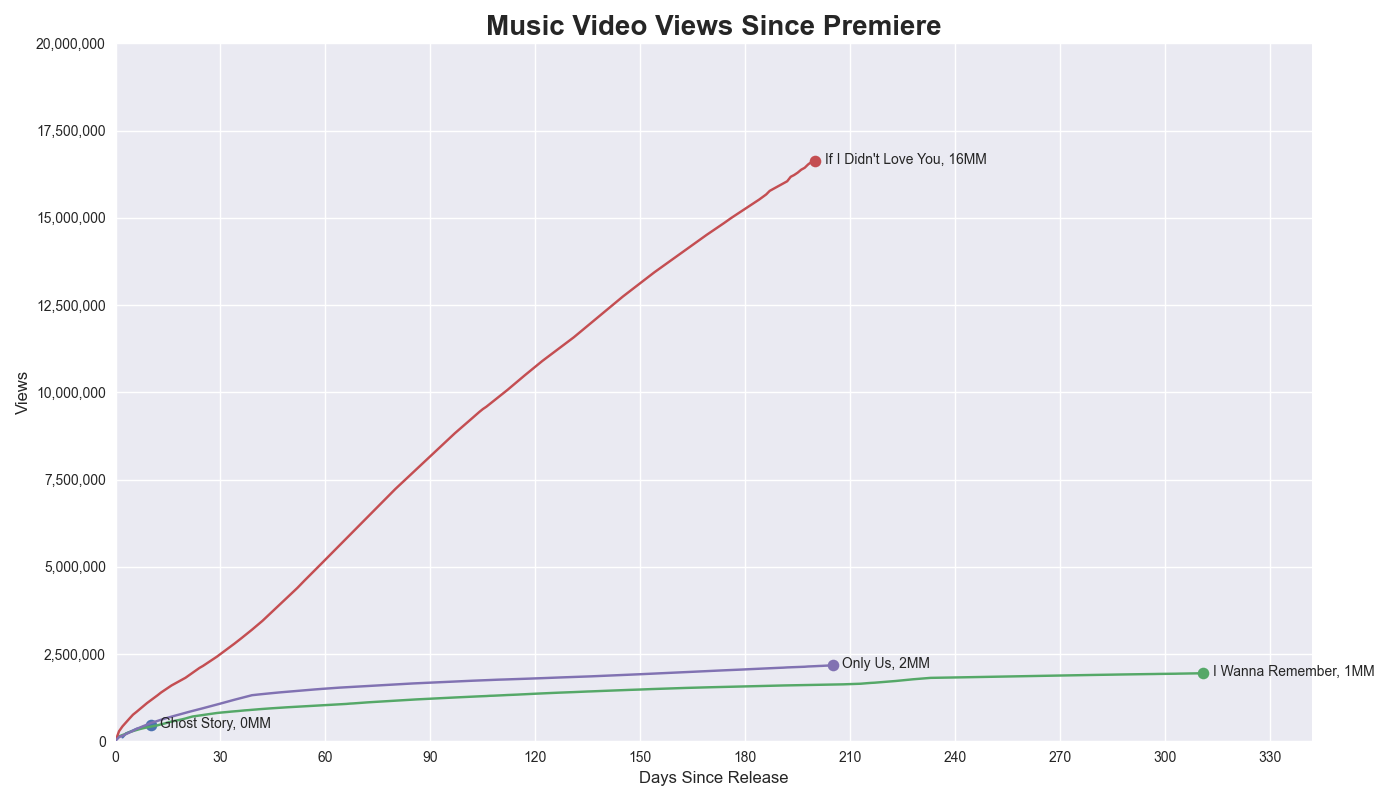
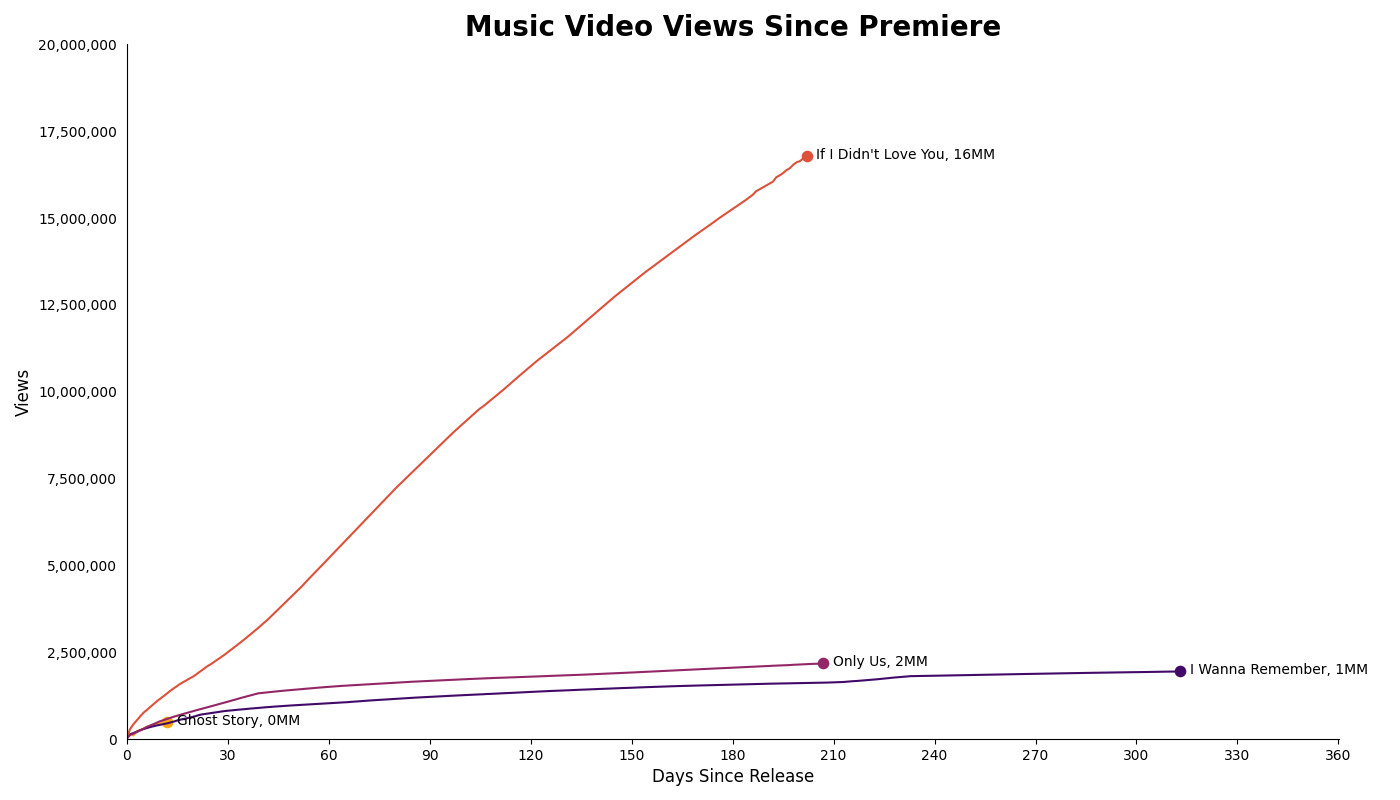
fixed graphs

diff --git a/YouTube Views.py b/YouTube Views.py
@@ -161,13 +161,13 @@ scraped_data['Video'] = scraped_data['Video']\
 
 
 " Import Previously Scraped Data "
-existing_data = pd.read_csv("Projects/Scrape-YouTube-Views/Output/YouTube Views.csv", parse_dates=[0])
+existing_data = pd.read_csv("Projects/Scrape-YouTube-Views/Output/YouTube Views.csv", parse_dates=[0, 1])
 
 
 " Append New Data to Existing Data "
 df_export = pd.concat([existing_data, scraped_data]).reset_index(drop=True)
-# df_export["Date"] = pd.to_datetime(df_export["Date"])
-# df_export["Upload Date"] = pd.to_datetime(df_export["Upload Date"])
+df_export["Date"] = pd.to_datetime(df_export["Date"])
+df_export["Upload Date"] = pd.to_datetime(df_export["Upload Date"])
 
 
 " Export to CSV "
@@ -182,52 +182,79 @@ print(tabulate(df_export, headers='keys', tablefmt='plain', showindex=False))
 
 
 
+
+
+
 " Analysis - Views Since Day of Release "
-# Show number of views based on days from upload date to show the biggest releases
 
-day_of_release = pd.read_csv("Projects/Scrape-YouTube-Views/Output/YouTube Views.csv", parse_dates=[0, 1])
+premiere = pd.read_csv("Projects/Scrape-YouTube-Views/Output/YouTube Views.csv", parse_dates=[0, 1])
+premiere['Days Since Release'] = (pd.to_datetime(premiere['Date']) - pd.to_datetime(premiere['Upload Date'])).dt.days.astype('int16')
+premiere = premiere.sort_values(by=['Video', 'Date']).reset_index(drop=True)
 
-day_of_release['Days Since Release'] = pd.to_datetime(day_of_release['Date']) - pd.to_datetime(day_of_release['Upload Date'])
-day_of_release['Days Since Release'] = day_of_release['Days Since Release'].dt.days.astype('int16')
-day_of_release = day_of_release.sort_values(by=['Video', 'Date']).reset_index(drop=True)
+# Color
+premiere_sort = premiere.sort_values('Upload Date')
+unique_videos = premiere_sort['Video'].unique()
+color_values = sns.color_palette('inferno', len(unique_videos))
+color_map = pd.DataFrame(zip(unique_videos, color_values), columns=['Video', 'Color'])
+premiere_plot = premiere.merge(color_map, how='left', left_on=['Video'], right_on=['Video'])
+
 
 
 " Plot - Views Since Day of Release "
-# TODO: fix color scheme
-plt.style.use('seaborn')  # Set style
+
+plt.style.use('default')  # Set style
 fig, ax = plt.subplots(figsize=(14, 8))
 
-grouped = day_of_release.groupby('Video')
+grouped = premiere_plot.groupby('Video')
 
-for video, grp in day_of_release.groupby(['Video']):
-    ax = grp.plot(ax=ax,
-                  kind='line',
-                  x='Days Since Release',
-                  y='Views',
-                  label=video,
-                  legend=False)
+for video, grp in premiere_plot.groupby(['Video']):
+    selection = grouped.get_group(video)
+
+    ax = grp.plot(
+        ax=ax,
+        kind='line',
+        x='Days Since Release',
+        y='Views',
+        color=selection['Color'],
+        label=video,
+        legend=False)
 
     selection = grouped.get_group(video)
     max_views = selection['Views'].max()
+    color = selection['Color'].max()
     max_days = selection['Days Since Release'].max()  # Max number of days since release for each video
-    views = float(selection[day_of_release['Days Since Release'] == max_days]['Views'])  # Max views for each video
-    ax.scatter(x=[max_days], y=[views], s=70, clip_on=False, linewidth=0)  # Creates single dot at end of each line plot
+    views = float(selection[premiere_plot['Days Since Release'] == max_days]['Views'])  # Max views for each video
+    ax.scatter(x=[max_days], y=[views], s=70, color=[color], clip_on=False, linewidth=0)
+
     ax.annotate(
         video + ', ' + str(int(views/1000000)) + 'MM',
         xy=[max_days, views],
         xytext=[7, -2],
         textcoords='offset points')
 
+ax.tick_params(
+        which='both',  # Applies to both major and minor ticks
+        # bottom=False,  # Turn off tick marks on x-axis
+        left=False,  # Turn off tick marks on y-axis
+        right=False,  # Turn off tick marks on y2-axis
+        top=False,  # Turn off tick marks on top of charts
+        )
+
 # Format x axis
 ax.get_xaxis().set_major_formatter(matplotlib.ticker.FuncFormatter(lambda x, p: format(int(x), ',')))  # Format y axis thousands
-plt.xticks(np.arange(0, day_of_release['Days Since Release'].max().round(-3)+501, 500))
-ax.set_xlim([0, day_of_release['Days Since Release'].max().round(-3)+501])
+plt.xticks(np.arange(0, premiere_plot['Days Since Release'].max().round(-3)+501, 500))
+ax.set_xlim([0, premiere_plot['Days Since Release'].max().round(-3)+501])
 
 # Format y axis
-ax.get_yaxis().set_major_formatter(matplotlib.ticker.FuncFormatter(lambda x, p: format(int(x), ',')))  # Format y axis thousands
-plt.yticks(np.arange(0, 150000000 + 1, 25000000))
-ax.set_ylim([0, 150000000 + 1])
+# ax.get_yaxis().set_major_formatter(matplotlib.ticker.FuncFormatter(lambda x, p: format(int(x), ',')))  # Format y axis thousands
+# plt.yticks(np.arange(0, 150000000 + 1, 25000000))
+# ax.set_ylim([0, 150000000 + 1])
 ax.axes.yaxis.set_ticklabels([])
+
+ax.spines['top'].set_visible(False)
+# ax.spines['bottom'].set_visible(False)
+ax.spines['left'].set_visible(False)
+ax.spines['right'].set_visible(False)
 
 # Titles
 plt.title('Music Video Views Since Premiere',
@@ -243,43 +270,68 @@ plt.ylabel('Views',
 plt.tight_layout()
 plt.show()
 
-plt.savefig('Projects/Scrape-YouTube-Views/Output - Graphs/Views Since Premiere.png')
+# plt.savefig('Projects/Scrape-YouTube-Views/Output - Graphs/Views Since Premiere.png')
+
 
 
 " Plot - Views Since Day of Release - Subset "
 
-# Subset to videos that have been tracked since day 1
-day_of_release_subset = day_of_release.loc[(day_of_release['Upload Date'] >= min(day_of_release['Date']))]
+premiere_subset = pd.read_csv("Projects/Scrape-YouTube-Views/Output/YouTube Views.csv", parse_dates=[0, 1])
+premiere_subset['Days Since Release'] = (pd.to_datetime(premiere_subset['Date']) - pd.to_datetime(premiere_subset['Upload Date'])).dt.days.astype('int16')
+premiere_subset = premiere_subset.sort_values(by=['Video', 'Date']).reset_index(drop=True)
+premiere_subset = premiere_subset.loc[(premiere_subset['Upload Date'] >= min(premiere_subset['Date']))]
+
+# Color
+premiere_subset_sort = premiere_subset.sort_values('Upload Date')
+unique_videos_subset = premiere_subset_sort['Video'].unique()
+color_values_subset = sns.color_palette('inferno', len(unique_videos_subset))
+color_map_subset = pd.DataFrame(zip(unique_videos_subset, color_values_subset), columns=['Video', 'Color'])
+premiere_subset_plot = premiere_subset.merge(color_map_subset, how='left', left_on=['Video'], right_on=['Video'])
 
 
-plt.style.use('seaborn')  # Set style
+
+plt.style.use('default')  # Set style
 fig, ax = plt.subplots(figsize=(14, 8))
 
-grouped = day_of_release_subset.groupby('Video')
+grouped = premiere_subset_plot.groupby('Video')
 
-for video, grp in day_of_release_subset.groupby(['Video']):
-    ax = grp.plot(ax=ax,
-                  kind='line',
-                  x='Days Since Release',
-                  y='Views',
-                  label=video,
-                  legend=False)
+for video, grp in premiere_subset_plot.groupby(['Video']):
+    selection = grouped.get_group(video)
+
+    ax = grp.plot(
+        ax=ax,
+        kind='line',
+        x='Days Since Release',
+        y='Views',
+        color=selection['Color'],
+        label=video,
+        legend=False)
 
     selection = grouped.get_group(video)
     max_views = selection['Views'].max()
+    color = selection['Color'].max()
     max_days = selection['Days Since Release'].max()  # Max number of days since release for each video
-    views = float(selection[day_of_release_subset['Days Since Release'] == max_days]['Views'])  # Max views for each video
-    ax.scatter(x=[max_days], y=[views], s=70, clip_on=False, linewidth=0)  # Creates single dot at end of each line plot
+    views = float(selection[premiere_subset_plot['Days Since Release'] == max_days]['Views'])  # Max views for each video
+    ax.scatter(x=[max_days], y=[views], s=70, color=[color], clip_on=False, linewidth=0)
+
     ax.annotate(
         video + ', ' + str(int(views/1000000)) + 'MM',
         xy=[max_days, views],
         xytext=[7, -2],
         textcoords='offset points')
 
+ax.tick_params(
+        which='both',  # Applies to both major and minor ticks
+        # bottom=False,  # Turn off tick marks on x-axis
+        left=False,  # Turn off tick marks on y-axis
+        right=False,  # Turn off tick marks on y2-axis
+        top=False,  # Turn off tick marks on top of charts
+        )
+
 # Format x axis
 ax.get_xaxis().set_major_formatter(matplotlib.ticker.FuncFormatter(lambda x, p: format(int(x), ',')))  # Format y axis thousands
-plt.xticks(np.arange(0, day_of_release_subset['Days Since Release'].max() + 31, 30))
-ax.set_xlim([0, day_of_release_subset['Days Since Release'].max() + 31])
+plt.xticks(np.arange(0, 360 + .1, 30))
+ax.set_xlim([0, 360 + .1])
 
 # Format y axis
 ax.get_yaxis().set_major_formatter(matplotlib.ticker.FuncFormatter(lambda x, p: format(int(x), ',')))  # Format y axis thousands
@@ -287,6 +339,11 @@ plt.yticks(np.arange(0, 20000000 + 1, 2500000))
 ax.set_ylim([0, 20000000 + 1])
 # ax.axes.yaxis.set_ticklabels([])
 
+ax.spines['top'].set_visible(False)
+# ax.spines['bottom'].set_visible(False)
+# ax.spines['left'].set_visible(False)
+ax.spines['right'].set_visible(False)
+
 # Titles
 plt.title('Music Video Views Since Premiere',
           fontweight='bold',
@@ -301,109 +358,99 @@ plt.ylabel('Views',
 plt.tight_layout()
 plt.show()
 
-plt.savefig('Projects/Scrape-YouTube-Views/Output - Graphs/Views Since Premiere - Subset.png')
+# plt.savefig('Projects/Scrape-YouTube-Views/Output - Graphs/Views Since Premiere - Subset.png')
+
+
 
 
 
 " Analysis - Views per Month "
 # Shows which videos consistently garner the most views and any deviations from average
 
-df_analysis = pd.read_csv("Projects/Scrape-YouTube-Views/Output/YouTube Views.csv", parse_dates=[0, 1])
+monthly = pd.read_csv("Projects/Scrape-YouTube-Views/Output/YouTube Views.csv", parse_dates=[0, 1])
 
-# Extract year and month and create new datetime
-df_analysis["Year"] = df_analysis["Date"].dt.year
-df_analysis["Month"] = df_analysis["Date"].dt.month
-df_analysis["Month_Year_Str"] = df_analysis["Year"].astype(str) + df_analysis["Month"].astype(str).str.zfill(2) + str(
-    1).zfill(2)
-df_analysis["Date"] = pd.to_datetime(df_analysis['Month_Year_Str'], format='%Y-%m-%d')
-df_analysis.drop(columns=['Month_Year_Str'], inplace=True)
+monthly["Year"] = monthly["Date"].dt.year
+monthly["Month"] = monthly["Date"].dt.month
+monthly["Month_Year_Str"] = monthly["Year"].astype(str) + monthly["Month"].astype(str).str.zfill(2) + str(1).zfill(2)
+monthly["Date"] = pd.to_datetime(monthly['Month_Year_Str'], format='%Y-%m-%d')
 
-# Sort by Video and Date
-df_analysis = df_analysis.sort_values(by=['Video', 'Date'])
+monthly.drop(columns=['Month_Year_Str'], inplace=True)
+monthly = monthly.sort_values(by=['Video', 'Date'])
+monthly['Monthly Views'] = monthly.groupby('Video')['Views'].diff()
 
-# Calculate 'daily' gains in views by video
-df_analysis['Monthly_Views'] = df_analysis.groupby('Video')['Views'].diff()
+monthly_views = monthly.groupby(['Date', 'Video'])["Monthly Views"].sum().reset_index()
+monthly_views["Monthly Views"] = monthly_views["Monthly Views"].astype(int)
+monthly_views = monthly_views.sort_values(['Date', 'Monthly Views'], ascending=(True, False))
+monthly_views = monthly_views.loc[(monthly_views['Date'] == monthly_views['Date'].max())]
 
-# Calculate new views for each video by month
-df_monthly_views = df_analysis.groupby(['Date', 'Video'])["Monthly_Views"].sum().reset_index()
-df_monthly_views["Monthly_Views"] = df_monthly_views["Monthly_Views"].astype(int)  # Convert float to integer
-
-# Sort by video with highest view gains
-# df_monthly_views = df_monthly_views.sort_values(['Monthly_Views'], ascending=False)
-df_monthly_views = df_monthly_views.sort_values(['Date', 'Monthly_Views'], ascending=(True, False))
 
 # Format variables
 # df_monthly_views["Monthly_Views"] = (df_monthly_views.Views_Delta.apply(lambda x: "{:,}".format(x)))
 # df_monthly_views["Monthly_Views"] = pd.to_datetime(df_monthly_views["Monthly_Views"], format='%Y-%m-%d').dt.date
 
-df_monthly_views_final = df_monthly_views[['Date', 'Video', 'Monthly_Views']]
+print(tabulate(monthly_views, headers='keys', tablefmt='plain', showindex=False))
 
-print(tabulate(df_monthly_views_final, headers='keys', tablefmt='plain', showindex=False))
 
 
 " Plot - Views per Month "
-# Single plot with monthly view counts for each video via Matplotlib
-
-# TODO: change to line plot for single video at a time, or in small multiples
-
-plt.style.use('seaborn-notebook')  # Set style
-fig, ax = plt.subplots(figsize=(13, 8))  # Set figure
-
 # Color
-color_labels = df_monthly_views_final['Video'].unique()
-rgb_values = sns.color_palette("plasma", len(color_labels))
-color_map = dict(zip(color_labels, rgb_values))
+monthly_views_sort = monthly_views.sort_values('Monthly Views', ascending=False)
+unique_videos_monthly = monthly_views_sort['Video'].unique()
+color_values_monthly = sns.color_palette('inferno', len(unique_videos_monthly))
+color_map_monthly = pd.DataFrame(zip(unique_videos_monthly, color_values_monthly), columns=['Video', 'Color'])
+monthly_views_plot = monthly_views.merge(color_map_monthly, how='left', left_on=['Video'], right_on=['Video']).sort_values(
+    'Monthly Views', ascending=True)
 
-# Plot
-plt.scatter(x=df_monthly_views_final['Date'],
-            y=df_monthly_views_final['Monthly_Views'],
-            c=df_monthly_views_final['Video'].map(color_map),
-            cmap='plasma',
+
+
+# TODO: fix labels
+plt.style.use('default')  # Set style
+fig, ax = plt.subplots(figsize=(14, 8))  # Set figure
+
+plt.scatter(x=monthly_views_plot['Video'],
+            y=monthly_views_plot['Monthly Views'],
+            c=monthly_views_plot['Color'],
             s=150,
             alpha=0.9,
             edgecolors='white',
             linewidth=1,
-            label=df_monthly_views_final['Video'].astype('category').cat.codes)
+            label=unique_videos_monthly)
 
 # Titles and axis labels
-plt.title('Monthly YouTube Views of Carrie Underwood Singles',
+plt.title('Monthly YouTube Views',
           fontweight='bold',
           fontsize=20)
-plt.xlabel('Date',
-           fontweight='bold',
-           size=12)
+# plt.xlabel('Date',
+#            fontweight='bold',
+#            size=12)
 plt.ylabel('Monthly Views',
            fontweight='bold',
            size=12)
 
-# Format axes
-ax.xaxis.set_major_formatter(DateFormatter("%b %Y"))  # Format x axis date
-ax.xaxis.set_major_locator(md.MonthLocator(range(1, 13)))  # Format frequency of x axis marks
-ax.set_ylim([0, 3000000])  # Y axis range
-plt.yticks(np.arange(0, 3000001, 500000))  # Set y axis tick range and intervals; +1 needed to show last tick
-ax.get_yaxis().set_major_formatter(matplotlib.ticker.FuncFormatter(lambda x, p: format(int(x), ',')))  # Format y
-# axis thousands
+ax.axes.xaxis.set_ticklabels([])
 
-plt.tight_layout()  # Fit graph to window
+# Format axes
+ax.set_ylim([0, 3000000])
+plt.yticks(np.arange(0, 3000001, 500000))
+ax.get_yaxis().set_major_formatter(matplotlib.ticker.FuncFormatter(lambda x, p: format(int(x), ',')))
+
+plt.tight_layout()
 plt.legend()
-# mplcursors.cursor(hover=True)
 plt.show()
 
 
 
+
+
 " Analysis - Total Views Over Time "
-# Small Multiples; total view counts for all videos over time
 
-# TODO: some videos are shown twice, and not in order of release.
+plt.style.use('default')
 
-# Set style
-plt.style.use('seaborn')
-
-fig, axes = plt.subplots(nrows=7, ncols=6, sharex='all', sharey='all', figsize=(13, 8))  # Set figure size
+fig, axes = plt.subplots(nrows=7, ncols=6, sharex='all', sharey='all', figsize=(14, 8))  # Set figure size
 axes_list = [item for sublist in axes for item in sublist]  # List comprehension
 
-ordered_videos = df_monthly_views_final["Video"].head(len(video_links))  # Set order of graphs
-grouped = df_export.groupby("Video")
+ordered_videos = scraped_data['Video'].head(len(video_links))  # Set order of graphs
+grouped = df_export.groupby('Video')
 
 first_date = df_export['Date'].min()  # First date for x axis
 last_date = df_export['Date'].max()  # Last date for x axis
@@ -451,10 +498,10 @@ for video in ordered_videos:
     ax.spines['right'].set_visible(False)
 
     " Add annotation on each graph of the latest view count "
-    max_date = selection["Date"].max()
-    views = float(selection[df_export["Date"] == max_date]["Views"])
+    max_date = selection['Date'].max()
+    views = float(selection[df_export['Date'] == max_date]['Views'])
     ax.scatter(x=[max_date], y=[views], s=70, clip_on=False, linewidth=0)
-    ax.annotate(str(int(views/1000000)) + "M", xy=[max_date, views], xytext=[7, -2], textcoords='offset points')
+    ax.annotate(str(int(views/1000000)) + 'M', xy=[max_date, views], xytext=[7, -2], textcoords='offset points')
 
 for ax in axes_list:
     ax.remove()
